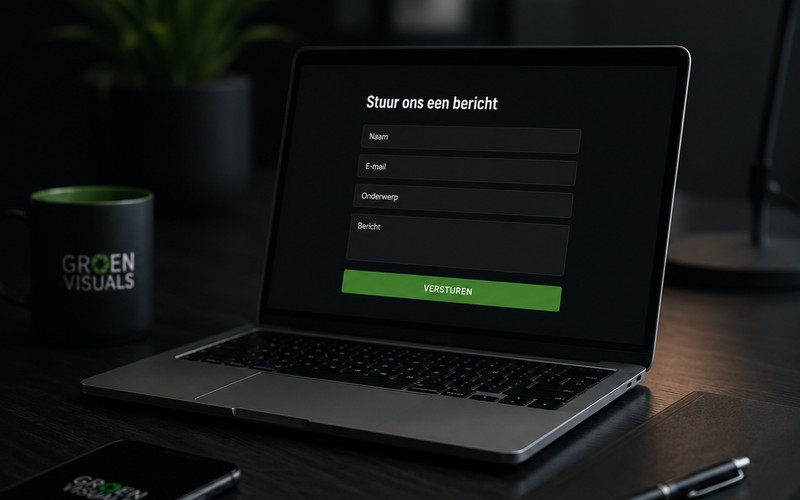
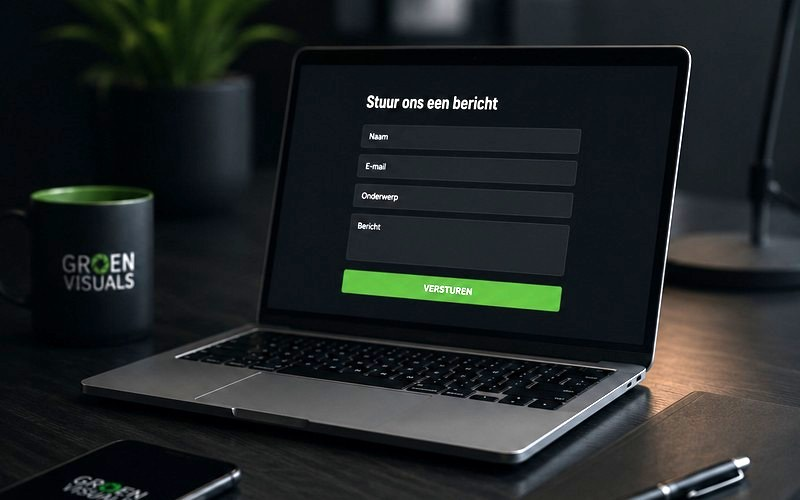
Add files via upload

diff --git a/index.html b/index.html
@@ -24,6 +24,7 @@
     .burger{display:none;flex-direction:column;gap:5px;cursor:pointer;z-index:101}
     .burger span{display:block;width:24px;height:2px;background:var(--white)}
     #hero{min-height:100vh;display:flex;flex-direction:column;justify-content:flex-end;align-items:center;text-align:center;position:relative;overflow:hidden;padding:8rem 2rem 6rem}
+    #hero::after{content:'';position:absolute;bottom:-2px;left:0;right:0;height:80px;background:var(--black);border-radius:50% 50% 0 0 / 80px 80px 0 0;z-index:3;pointer-events:none}
     .hero-video{position:absolute;inset:0;width:100%;height:100%;object-fit:cover;z-index:0}
     .hero-video-overlay{position:absolute;inset:0;background:rgba(10,10,10,.55);z-index:1}
     .hero-bg{position:absolute;inset:0;background:radial-gradient(ellipse 80% 60% at 50% 40%,rgba(6,150,51,.13) 0%,transparent 70%);z-index:1}
